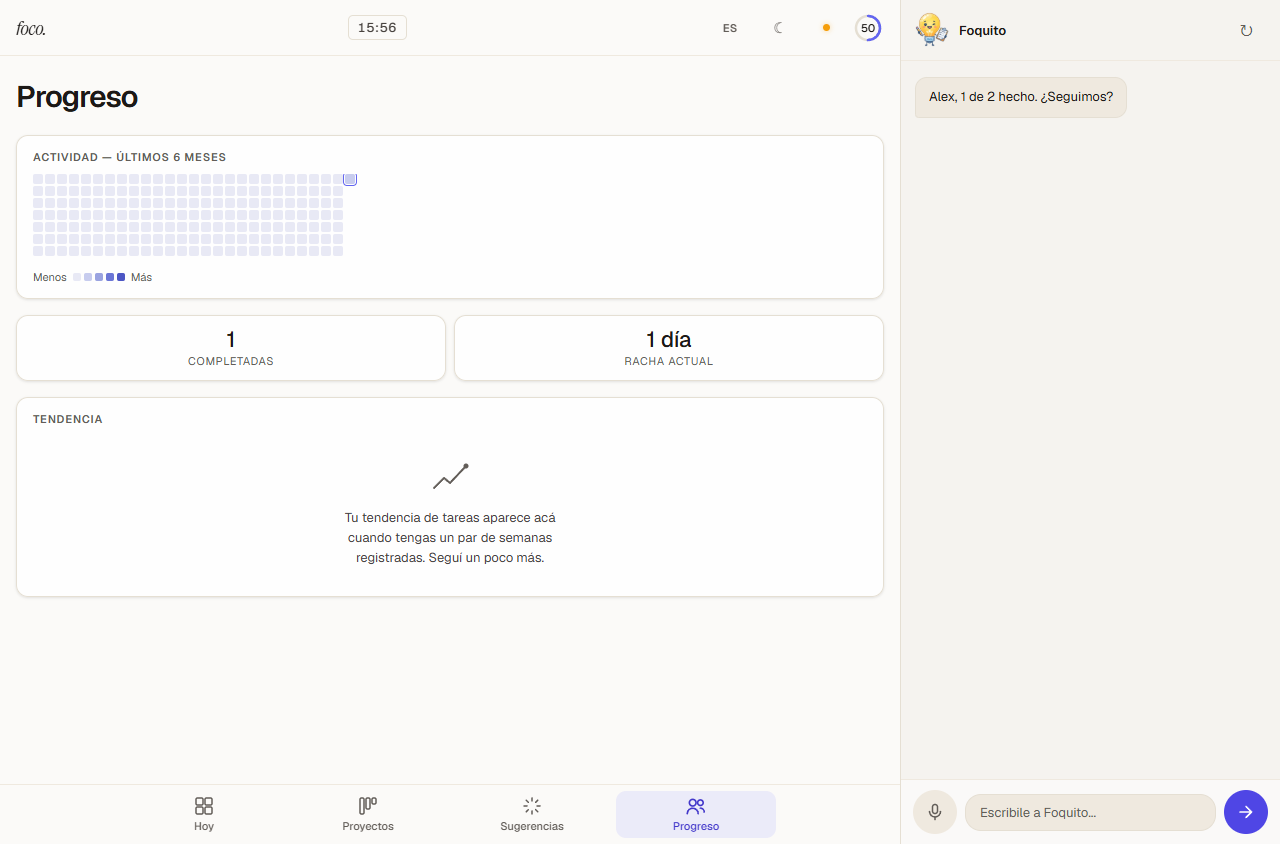
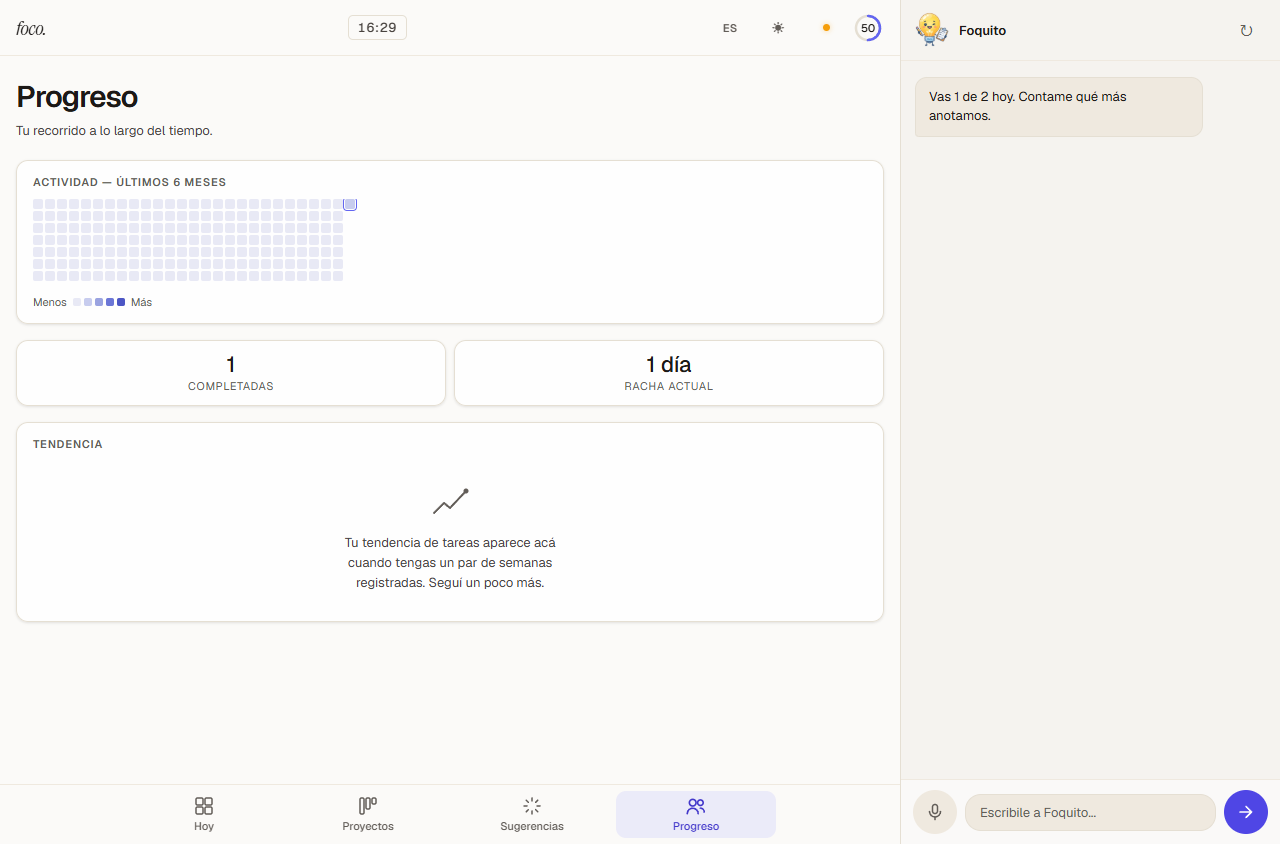
Separar consejos accionables de las métricas de progreso

diff --git a/public/app.js b/public/app.js
@@ -141,6 +141,8 @@ const I18N_UI = {
     registrar: 'Registrar →', sugPulso: 'Pulso', sugEstaSemana: 'Esta semana',
     sugCompletadas: 'completadas esta semana', sugInsight: 'Insight de tu semana',
     sugAnalizando: 'Analizando tu semana...', sugCerrarSemana: 'Cerrar la semana',
+    sugLead: 'Elegí un paso para seguir avanzando.', sugAction: 'Próximo paso',
+    sugOfflineTip: 'Mientras tanto, elegí una tarea pendiente para hoy.',
     sugRevision: 'Revisión semanal', sugRevisionDesc: 'Cerrá la semana con una reflexión corta.',
     comenzar: 'Comenzar →', sugFootHint: '¿Reorganizar algo? Pedíselo a Foquito.',
     foqSaltear: 'Saltear', foqRedoTitle: 'Rehacer mi semana', foqInputPh: 'Escribile a Foquito...',
@@ -186,7 +188,7 @@ const I18N_UI = {
     manana: 'Mañana', ayer: 'Ayer',
     sinFechasProximas: 'Sin fechas próximas', sinNotas: 'Sin notas', sinProyectosAun: 'Sin proyectos aún',
     vencido: 'Vencido',
-    progresoTitulo: 'Progreso', actividadUltimos6Meses: 'Actividad — últimos 6 meses',
+    progresoTitulo: 'Progreso', progresoLead: 'Tu recorrido a lo largo del tiempo.', actividadUltimos6Meses: 'Actividad — últimos 6 meses',
     menos: 'Menos', mas: 'Más', completadasLabel: 'completadas', rachaActual: 'racha actual',
     tendencia: 'Tendencia',
     tendenciaEmpty: 'Tu tendencia de tareas aparece acá cuando tengas un par de semanas registradas. Seguí un poco más.',
@@ -232,6 +234,8 @@ const I18N_UI = {
     registrar: 'Log →', sugPulso: 'Pulse', sugEstaSemana: 'This week',
     sugCompletadas: 'completed this week', sugInsight: 'Insight of your week',
     sugAnalizando: 'Analyzing your week...', sugCerrarSemana: 'Close the week',
+    sugLead: 'Choose one step to keep moving forward.', sugAction: 'Next step',
+    sugOfflineTip: 'In the meantime, choose one pending task for today.',
     sugRevision: 'Weekly review', sugRevisionDesc: 'Close the week with a short reflection.',
     comenzar: 'Start →', sugFootHint: 'Want to reorganize something? Ask Foquito.',
     foqSaltear: 'Skip', foqRedoTitle: 'Redo my week', foqInputPh: 'Message Foquito...',
@@ -277,7 +281,7 @@ const I18N_UI = {
     manana: 'Tomorrow', ayer: 'Yesterday',
     sinFechasProximas: 'No upcoming dates', sinNotas: 'No notes', sinProyectosAun: 'No projects yet',
     vencido: 'Overdue',
-    progresoTitulo: 'Progress', actividadUltimos6Meses: 'Activity — last 6 months',
+    progresoTitulo: 'Progress', progresoLead: 'Your journey over time.', actividadUltimos6Meses: 'Activity — last 6 months',
     menos: 'Less', mas: 'More', completadasLabel: 'completed', rachaActual: 'current streak',
     tendencia: 'Trend',
     tendenciaEmpty: 'Your task trend shows up here once you have a couple of weeks logged. Keep going.',
@@ -2609,20 +2613,9 @@ async function renderPatrones() {
 // ── RENDER SUGERENCIAS ──────────────────────────────────────
 
 async function renderSugerencias() {
-  updateSugStats();
   renderConflicts();
   generateAISummary();
   updateEstadoCard();
-}
-
-// Bloque "Pulso" — solo hechas/total + barra. Se sacaron momentum y total
-// como métricas separadas (momentum no tenía significado claro, total es
-// redundante con el X/10).
-function updateSugStats() {
-  const { done, total, pct } = calcMomentum();
-  document.getElementById('sug-done').textContent = `${done}/${total}`;
-  const bar = document.getElementById('pulso-bar-fill');
-  if (bar) bar.style.width = `${pct}%`;
 }
 
 function renderConflicts() {
@@ -2672,10 +2665,11 @@ async function generateAISummary() {
   const titleEl = document.getElementById('sug-insight-title');
   const textEl = document.getElementById('sug-insight-text');
   const tipEl = document.getElementById('sug-insight-tip');
+  const actionEl = document.getElementById('sug-insight-action');
   document.getElementById('sug-insight-card').setAttribute('aria-busy', 'true');
   titleEl.textContent = t('sugAnalizando');
   textEl.textContent = '';
-  tipEl.style.display = 'none';
+  actionEl.style.display = 'none';
   setFoquitoState('reading');
 
   const allEvs = week.flatMap(d => eventsCache[toISO(d)] || []);
@@ -2728,11 +2722,13 @@ Respondé SOLO con JSON válido, sin markdown ni texto extra:
     textEl.textContent = parsed.insight || '';
     if (parsed.tip) {
       tipEl.textContent = parsed.tip;
-      tipEl.style.display = 'block';
+      actionEl.style.display = 'flex';
     }
   } catch {
     titleEl.textContent = t('sugWeek');
     textEl.textContent = t('sugConnectionError');
+    tipEl.textContent = t('sugOfflineTip');
+    actionEl.style.display = 'flex';
   } finally {
     document.getElementById('sug-insight-card').setAttribute('aria-busy', 'false');
     setFoquitoState(null);
@@ -5470,6 +5466,7 @@ async function renderEquipo() {
     <div class="tuana-wrap">
       <div class="tuana-header">
         <div class="tuana-title">${t('progresoTitulo')}</div>
+        <p class="tuana-lead">${t('progresoLead')}</p>
       </div>
 
       <div class="tuana-card">

diff --git a/public/index.html b/public/index.html
@@ -379,9 +379,22 @@
     <div id="view-sugerencias" style="display:none">
       <h1 class="view-title" data-i18n="navSugerencias">Sugerencias</h1>
 
-      <!-- "¿Cómo estás hoy?" es diario, no semanal — en rigor no va en esta
-           vista. Moverlo a la vista Hoy queda fuera de este cambio (tocaría
-           otra vista); se deja acá por ahora, sin duplicar. -->
+      <p class="sug-lead" data-i18n="sugLead">Elegí un paso para seguir avanzando.</p>
+
+      <div class="sug-section" data-i18n="sugInsight">Insight de tu semana</div>
+
+      <div class="sug-card sug-insight-card" id="sug-insight-card">
+        <div class="sug-insight-hd">
+          <img src="/foquito-avatar.png" alt="" class="foq-avatar-img foq-avatar-sm"/>
+          <div class="sug-insight-title" id="sug-insight-title" data-i18n="sugAnalizando">Analizando tu semana...</div>
+        </div>
+        <div class="sug-desc" id="sug-insight-text" role="status"></div>
+        <div class="sug-insight-action" id="sug-insight-action" style="display:none">
+          <span class="sug-insight-action-label" data-i18n="sugAction">Próximo paso</span>
+          <span id="sug-insight-tip"></span>
+        </div>
+      </div>
+
       <div class="sug-section sug-section--cyan" data-i18n="sugHoy">Hoy</div>
 
       <div class="sug-card sug-card--cyan" id="sug-estado-card">
@@ -397,29 +410,6 @@
       <!-- Conflictos -->
       <div id="sug-conflicts"></div>
 
-      <!-- BLOQUE 1: PULSO -->
-      <div class="sug-section" data-i18n="sugPulso">Pulso</div>
-
-      <div class="sug-hero" id="sug-resumen">
-        <div class="sug-hero-eyebrow" data-i18n="sugEstaSemana">Esta semana</div>
-        <div class="pulso-num" id="sug-done">—</div>
-        <div class="pulso-label" data-i18n="sugCompletadas">completadas esta semana</div>
-        <div class="proj-progress"><div class="proj-progress-fill" id="pulso-bar-fill" style="width:0%;background:var(--success-text)"></div></div>
-      </div>
-
-      <!-- BLOQUE 2: INSIGHT DE LA IA (protagonista) -->
-      <div class="sug-section" data-i18n="sugInsight">Insight de tu semana</div>
-
-      <div class="sug-card sug-insight-card" id="sug-insight-card">
-        <div class="sug-insight-hd">
-          <img src="/foquito-avatar.png" alt="" class="foq-avatar-img foq-avatar-sm"/>
-          <div class="sug-insight-title" id="sug-insight-title" data-i18n="sugAnalizando">Analizando tu semana...</div>
-        </div>
-        <div class="sug-desc" id="sug-insight-text" role="status"></div>
-        <div class="sug-insight-tip" id="sug-insight-tip" style="display:none"></div>
-      </div>
-
-      <!-- BLOQUE 3: CERRAR LA SEMANA -->
       <div class="sug-section sug-section--purple" data-i18n="sugCerrarSemana">Cerrar la semana</div>
 
       <div class="sug-card sug-card--purple" id="sug-review">

diff --git a/public/style.css b/public/style.css
@@ -4895,12 +4895,21 @@ input:focus-visible, textarea:focus-visible, select:focus-visible {
 .view-title { margin-bottom: 8px; }
 #view-sugerencias { gap: 12px; }
 #view-sugerencias > * { width: 100%; max-width: 760px; margin-left: auto; margin-right: auto; }
+.sug-lead, .tuana-lead { color: var(--text2); font-size: 13px; line-height: 1.5; }
+.sug-lead { margin-top: -8px; }
 .sug-section { padding-top: 12px; font-size: 11px; }
 .sug-insight-card { min-height: 196px; }
 @media (max-width: 760px) { .sug-insight-card { min-height: 256px; } }
-.sug-insight-tip, .sug-btn-primary { color: var(--accent-text); }
+.sug-insight-action {
+  display: flex; flex-direction: column; gap: 5px; padding: 11px 12px; margin-top: 14px;
+  background: rgba(var(--accent-rgb), .1); border: 1px solid rgba(var(--accent-rgb), .2);
+  border-radius: var(--radius-control); color: var(--text); font-size: 13px; line-height: 1.45;
+}
+.sug-insight-action-label { color: var(--accent-text); font-size: 10px; font-weight: 600; letter-spacing: .07em; text-transform: uppercase; }
+.sug-btn-primary { color: var(--accent-text); }
 .tuana-wrap { width: 100%; max-width: 900px; margin: 0 auto; gap: 16px; padding-top: 24px; }
 .tuana-header { padding: 0 0 4px; }
+.tuana-lead { margin-top: 6px; }
 .tuana-section-label, .tuana-hl-lbl { font-size: 11px; }
 #foq-input { font-weight: 400; }
 @media (max-width: 760px) {
